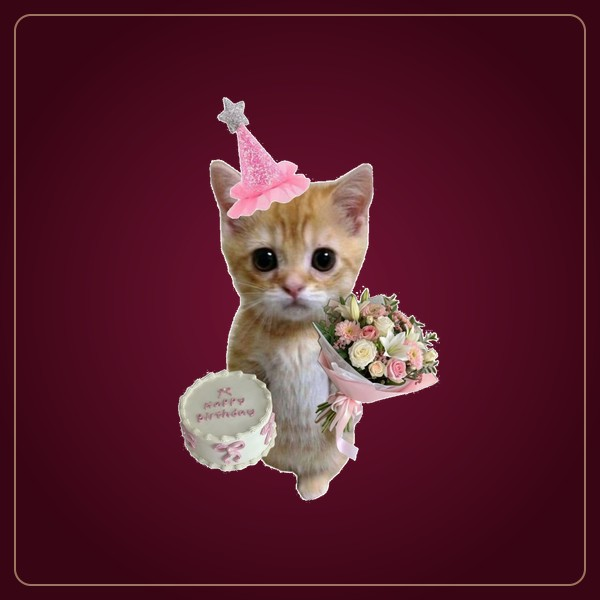
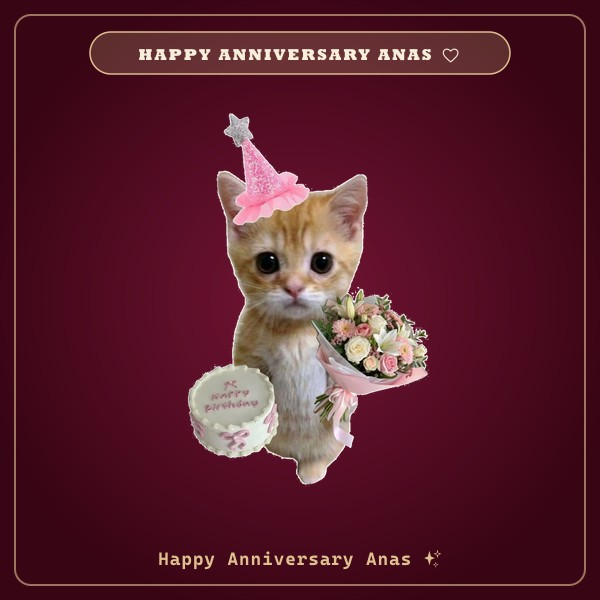
update social share card to Happy Anniversary Anas

Changed region(s): [[0.15, 0.03, 0.87, 0.84], [0.27, 0.9, 0.69, 0.96]]

diff --git a/scripts/create-og.js b/scripts/create-og.js
@@ -38,11 +38,11 @@ async function generateOG() {
       <text x="1040" y="490" fill="#dfc08f" font-size="24" opacity="0.6">✧</text>
 
       <!-- Badge / Header Text -->
-      <rect x="425" y="55" width="350" height="42" rx="21" fill="rgba(223, 192, 143, 0.2)" stroke="#dfc08f" stroke-width="1.5"/>
-      <text x="600" y="83" font-family="'Nunito', sans-serif" font-weight="800" font-size="19" fill="#f7eedc" text-anchor="middle" letter-spacing="3">HAPPY BIRTHDAY ANAS</text>
+      <rect x="350" y="50" width="500" height="48" rx="24" fill="rgba(223, 192, 143, 0.22)" stroke="#dfc08f" stroke-width="1.5"/>
+      <text x="600" y="82" font-family="'Nunito', sans-serif" font-weight="800" font-size="21" fill="#f7eedc" text-anchor="middle" letter-spacing="3">HAPPY ANNIVERSARY ANAS 🤍</text>
 
       <!-- Footer Text -->
-      <text x="600" y="585" font-family="'Playfair Display', serif" font-weight="700" font-size="24" fill="#dfc08f" text-anchor="middle" letter-spacing="2">A Special Gift For You 🎁</text>
+      <text x="600" y="585" font-family="'Playfair Display', serif" font-weight="700" font-size="25" fill="#dfc08f" text-anchor="middle" letter-spacing="2">Happy Anniversary Anas ✨</text>
     </svg>
   `);
 
@@ -69,7 +69,7 @@ async function generateOG() {
 
   // Also create a square 600x600 preview (some apps prefer 1:1)
   const catSquareBuffer = await sharp('public/images/cat.png')
-    .resize({ height: 500, fit: 'contain' })
+    .resize({ height: 460, fit: 'contain' })
     .toBuffer();
 
   const squareSvg = Buffer.from(`
@@ -82,6 +82,9 @@ async function generateOG() {
       </defs>
       <rect width="600" height="600" fill="url(#bgGlowSq)"/>
       <rect x="15" y="15" width="570" height="570" rx="16" fill="none" stroke="#dfc08f" stroke-width="2" stroke-opacity="0.6"/>
+      <rect x="90" y="32" width="420" height="42" rx="21" fill="rgba(223, 192, 143, 0.22)" stroke="#dfc08f" stroke-width="1.5"/>
+      <text x="300" y="60" font-family="'Nunito', sans-serif" font-weight="800" font-size="16" fill="#f7eedc" text-anchor="middle" letter-spacing="2">HAPPY ANNIVERSARY ANAS 🤍</text>
+      <text x="300" y="565" font-family="'Playfair Display', serif" font-weight="700" font-size="18" fill="#dfc08f" text-anchor="middle" letter-spacing="1">Happy Anniversary Anas ✨</text>
     </svg>
   `);
 

diff --git a/app/gift/[id]/page.tsx b/app/gift/[id]/page.tsx
@@ -8,13 +8,13 @@ export function generateMetadata({ params }: { params: { id: string } }): Metada
   if (!data) return { title: 'Gift Not Found' }
   
   return {
-    title: `Happy Birthday ${data.receiverName}! 🎂`,
-    description: `A special birthday message for ${data.receiverName} 🤍`,
+    title: `Happy Anniversary ${data.receiverName} 🤍`,
+    description: `A special anniversary surprise for ${data.receiverName} 🤍`,
     openGraph: {
-      title: `Happy Birthday ${data.receiverName}! 🎂`,
-      description: `A special birthday message for ${data.receiverName} 🤍`,
+      title: `Happy Anniversary ${data.receiverName} 🤍`,
+      description: `A special anniversary surprise for ${data.receiverName} 🤍`,
       url: `https://agiftforyouuu.vercel.app/gift/${params.id.toLowerCase()}`,
-      siteName: 'Birthday Gift',
+      siteName: 'Happy Anniversary',
       type: 'website',
       images: [
         {
@@ -23,14 +23,14 @@ export function generateMetadata({ params }: { params: { id: string } }): Metada
           width: 1200,
           height: 630,
           type: 'image/jpeg',
-          alt: `Happy Birthday ${data.receiverName} Cat 🐱🎂`,
+          alt: `Happy Anniversary ${data.receiverName} 🤍`,
         },
       ],
     },
     twitter: {
       card: 'summary_large_image',
-      title: `Happy Birthday ${data.receiverName}! 🎂`,
-      description: `A special birthday message for ${data.receiverName} 🤍`,
+      title: `Happy Anniversary ${data.receiverName} 🤍`,
+      description: `A special anniversary surprise for ${data.receiverName} 🤍`,
       images: ['https://agiftforyouuu.vercel.app/images/og-cat.jpg'],
     },
   }

diff --git a/app/page.tsx b/app/page.tsx
@@ -4,13 +4,13 @@ import GiftClient from '@/components/GiftClient'
 
 export const metadata: Metadata = {
   metadataBase: new URL('https://agiftforyouuu.vercel.app'),
-  title: 'Happy Birthday Anas! 🎂',
-  description: 'A special birthday message for Anas 🤍',
+  title: 'Happy Anniversary Anas 🤍',
+  description: 'A special anniversary surprise for Anas 🤍',
   openGraph: {
-    title: 'Happy Birthday Anas! 🎂',
-    description: 'A special birthday message for Anas 🤍',
+    title: 'Happy Anniversary Anas 🤍',
+    description: 'A special anniversary surprise for Anas 🤍',
     url: 'https://agiftforyouuu.vercel.app',
-    siteName: 'Birthday Gift',
+    siteName: 'Happy Anniversary Anas',
     type: 'website',
     images: [
       {
@@ -19,14 +19,14 @@ export const metadata: Metadata = {
         width: 1200,
         height: 630,
         type: 'image/jpeg',
-        alt: 'Happy Birthday Anas Cat 🐱🎂',
+        alt: 'Happy Anniversary Anas 🤍',
       },
     ],
   },
   twitter: {
     card: 'summary_large_image',
-    title: 'Happy Birthday Anas! 🎂',
-    description: 'A special birthday message for Anas 🤍',
+    title: 'Happy Anniversary Anas 🤍',
+    description: 'A special anniversary surprise for Anas 🤍',
     images: ['https://agiftforyouuu.vercel.app/images/og-cat.jpg'],
   },
 }

diff --git a/app/layout.tsx b/app/layout.tsx
@@ -3,13 +3,13 @@ import './globals.css'
 
 export const metadata: Metadata = {
   metadataBase: new URL('https://agiftforyouuu.vercel.app'),
-  title: 'Happy Birthday Anas! 🎂',
-  description: 'A special birthday message for Anas 🤍',
+  title: 'Happy Anniversary Anas 🤍',
+  description: 'A special anniversary surprise for Anas 🤍',
   openGraph: {
-    title: 'Happy Birthday Anas! 🎂',
-    description: 'A special birthday message for Anas 🤍',
+    title: 'Happy Anniversary Anas 🤍',
+    description: 'A special anniversary surprise for Anas 🤍',
     url: 'https://agiftforyouuu.vercel.app',
-    siteName: 'Birthday Gift',
+    siteName: 'Happy Anniversary Anas',
     type: 'website',
     images: [
       {
@@ -18,14 +18,14 @@ export const metadata: Metadata = {
         width: 1200,
         height: 630,
         type: 'image/jpeg',
-        alt: 'Happy Birthday Anas Cat 🐱🎂',
+        alt: 'Happy Anniversary Anas 🤍',
       },
     ],
   },
   twitter: {
     card: 'summary_large_image',
-    title: 'Happy Birthday Anas! 🎂',
-    description: 'A special birthday message for Anas 🤍',
+    title: 'Happy Anniversary Anas 🤍',
+    description: 'A special anniversary surprise for Anas 🤍',
     images: ['https://agiftforyouuu.vercel.app/images/og-cat.jpg'],
   },
 }
